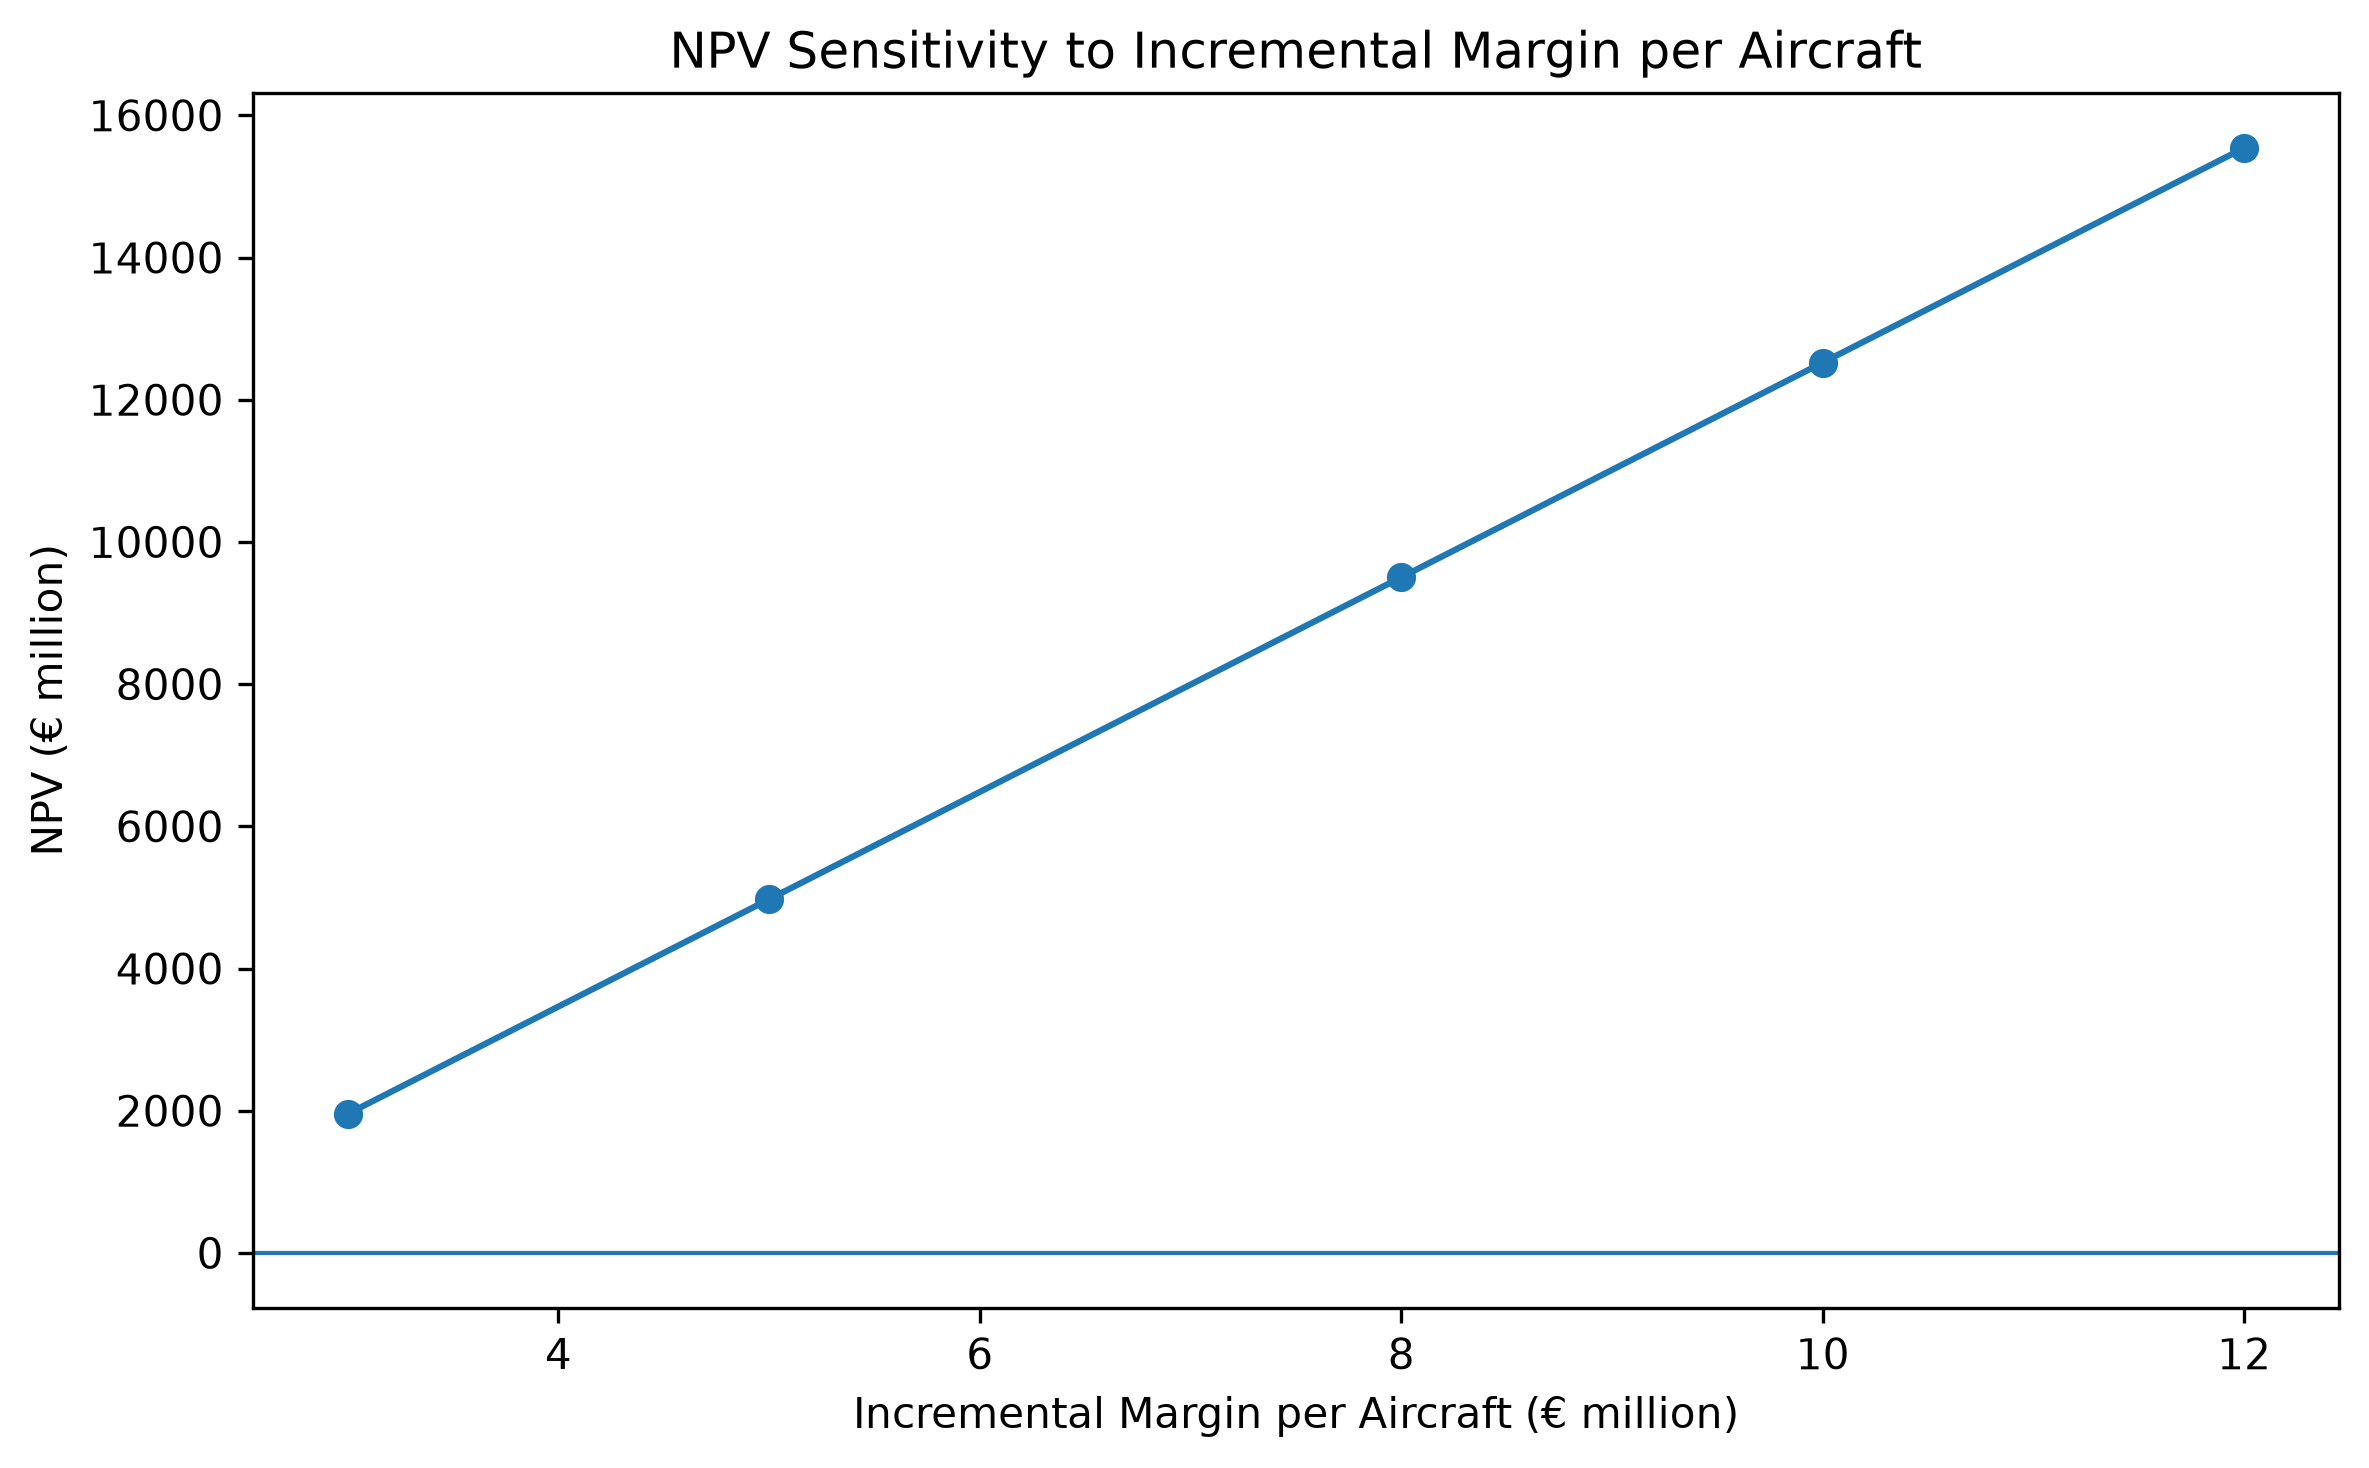
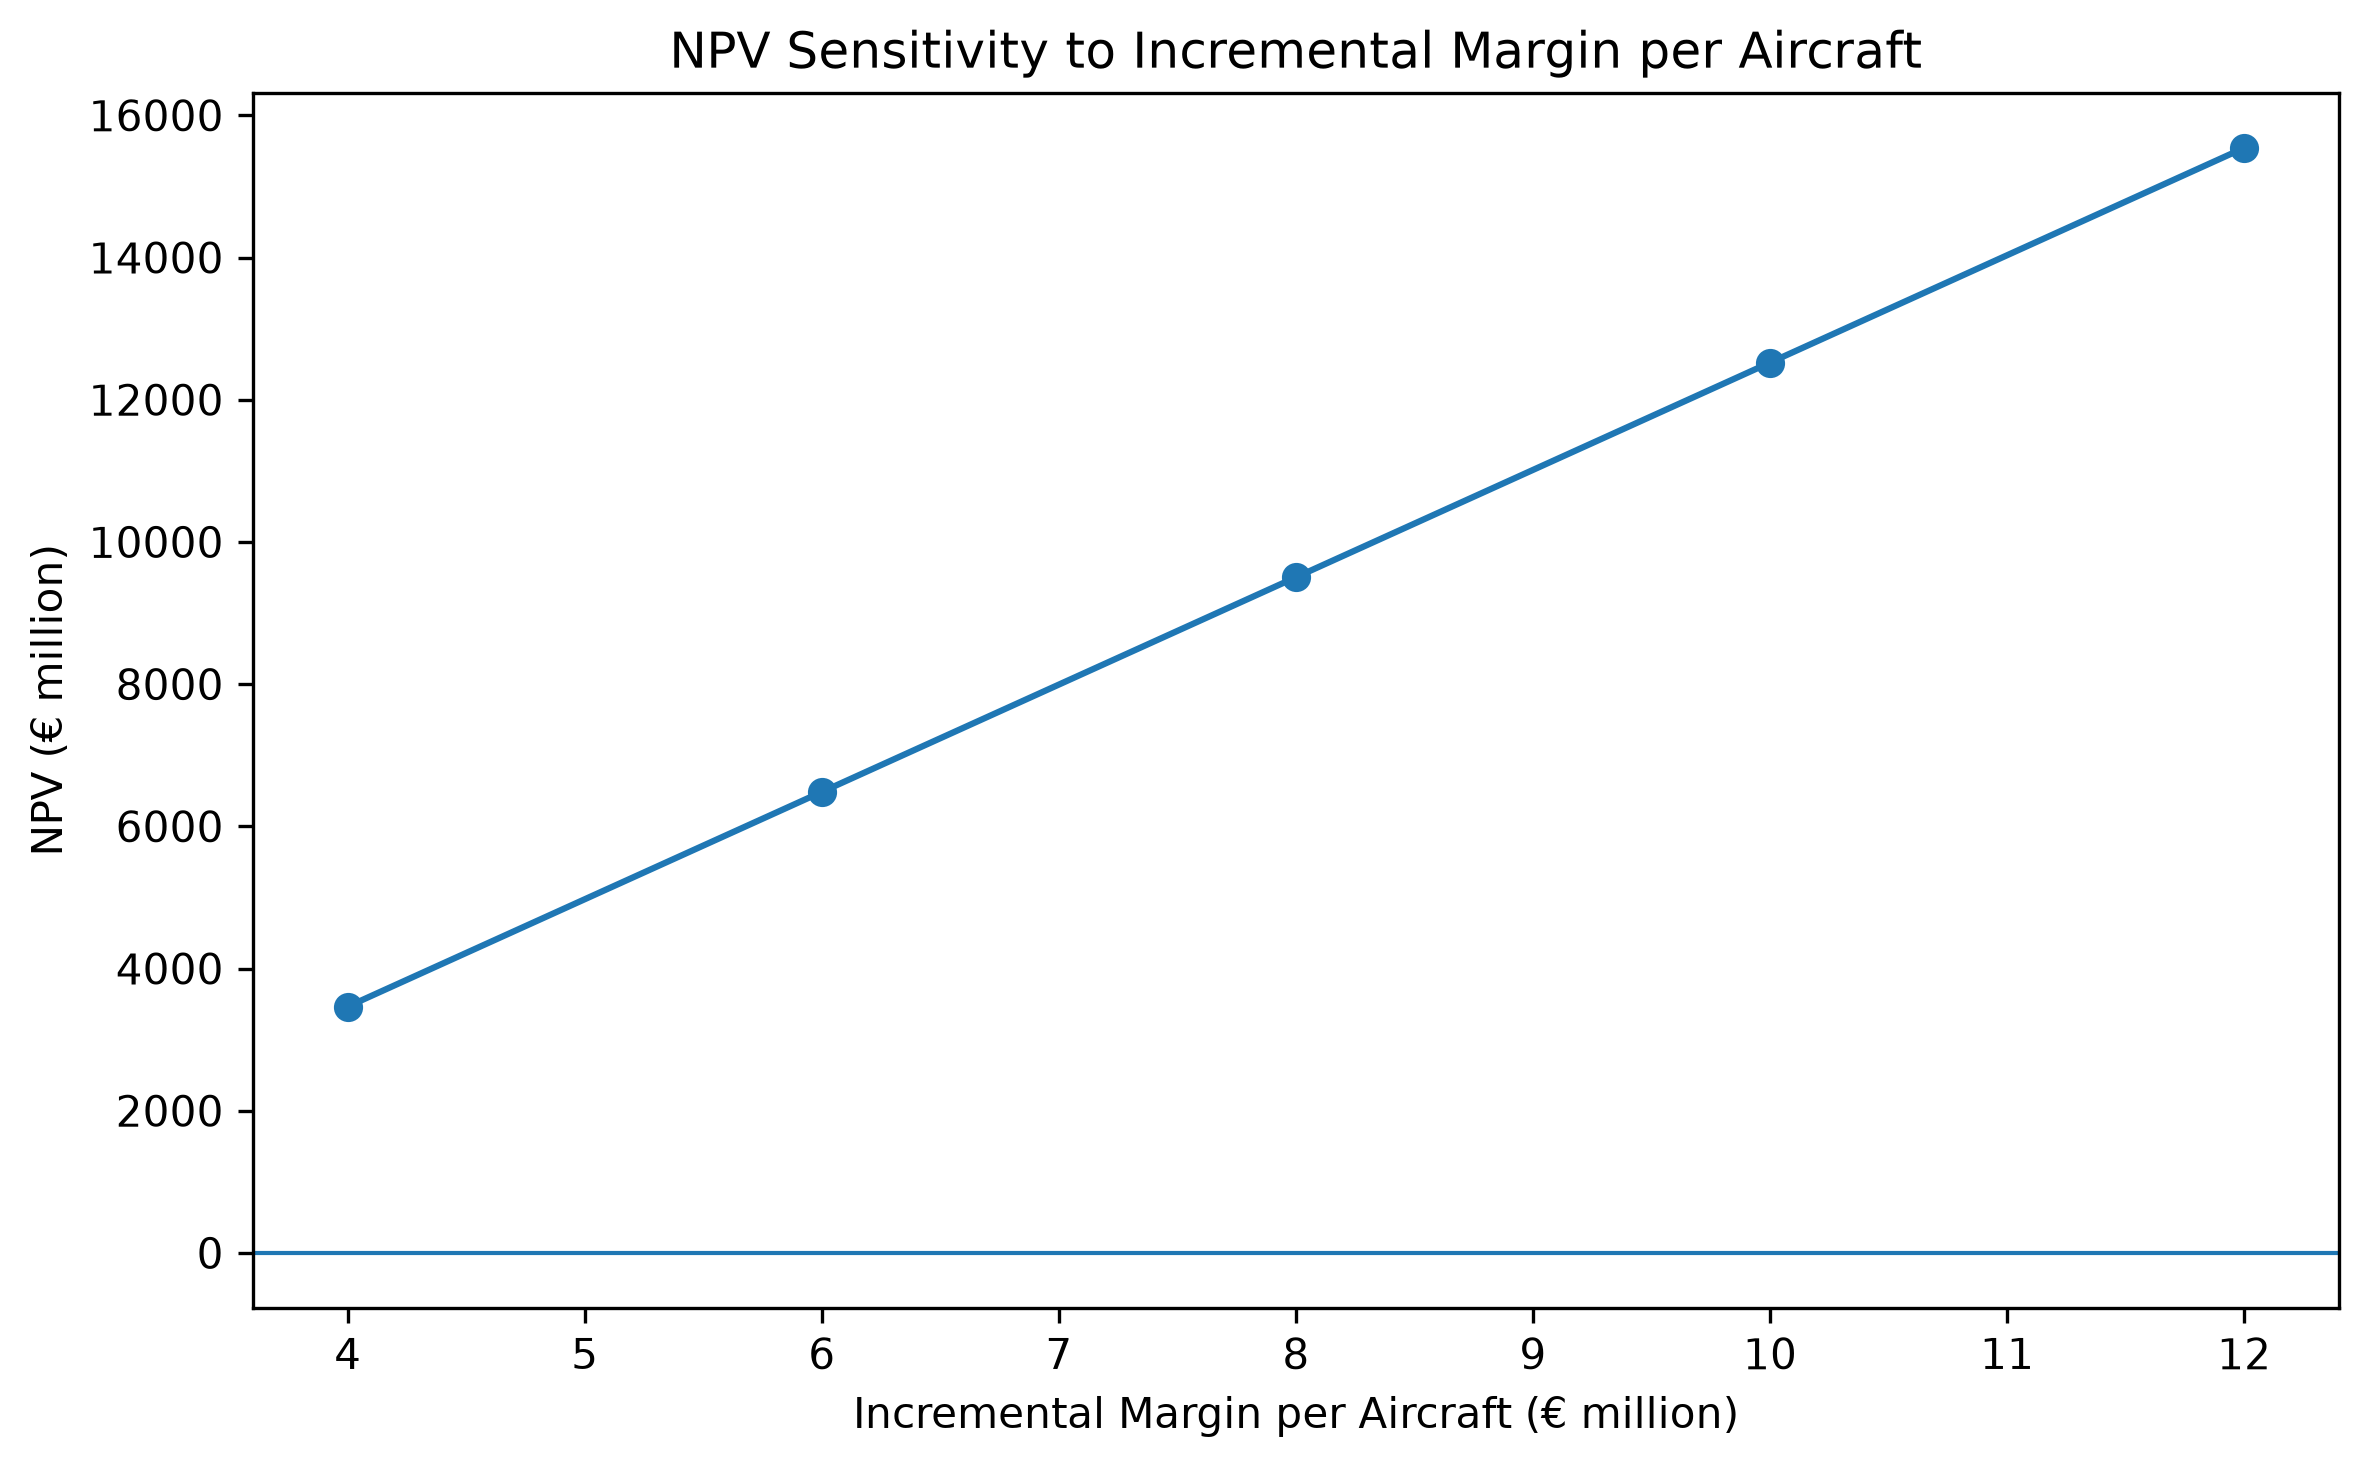
Minor update to NPV v Margin plot (x-values)

diff --git a/plots.py b/plots.py
@@ -55,7 +55,7 @@ plt.close()
 
 monthly_rate = reported["target_monthly_rate_high"]
 
-margins = [3, 5, 8, 10, 12]
+margins = [4, 6, 8, 10, 12]
 margin_npvs = []
 
 for margin in margins:
